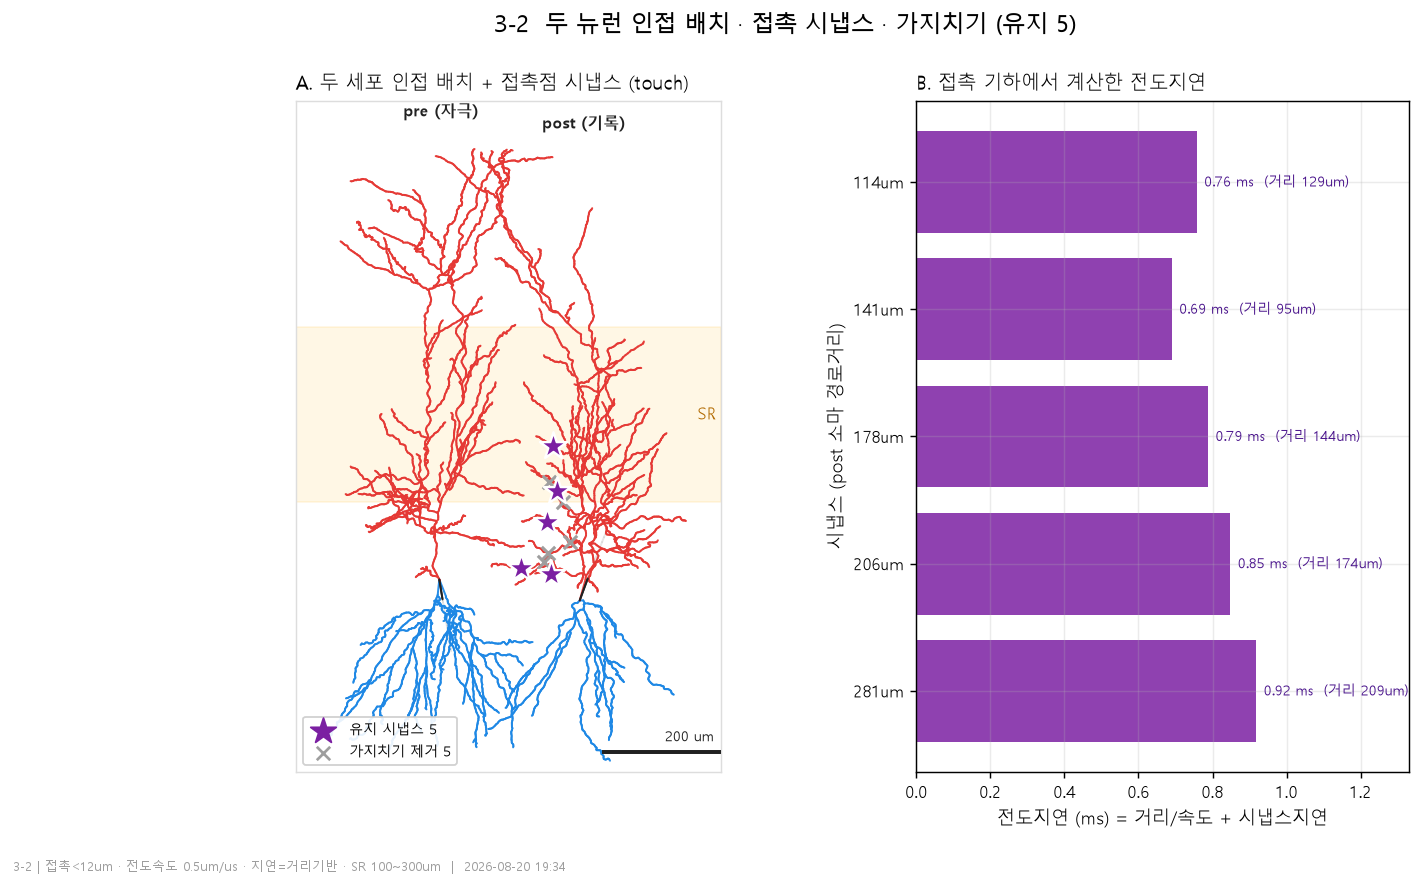
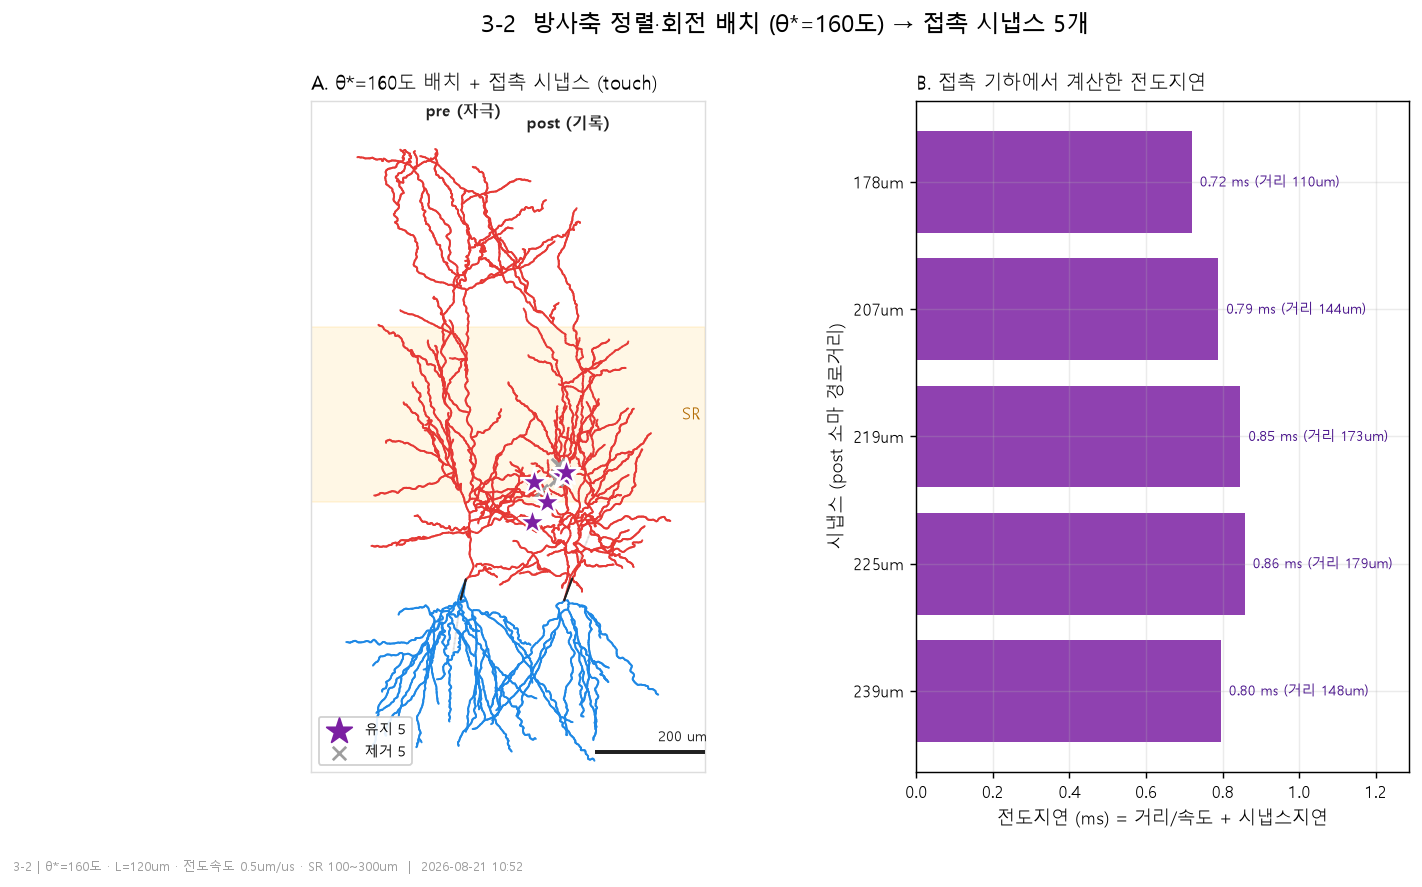
04 3-2: 방사축 정렬 + 회전각 탐색으로 생물학적 인접 배치
사용자 제안: 아틀라스 방사축 기준으로 회전시켜 인접해지는 각을 쓰자.
- 생물학적 근거: CA1 PC 는 방사축(SO->SP->SR->SLM)을 따라 정렬 -> 두 정단축 평행이 실제 방위.
  방위각(방사축 둘레 회전)은 자유 파라미터 -> 접촉 최대가 되도록 선택.
- 04는 아틀라스 미로드(독립 트랙) -> 세포 고유 정단축(+y)을 방사축 대응물로 사용.
- 절차: 정단축 +y 정렬 -> 소마 측방 L=120um -> pre 를 +y 둘레 회전 스윕(10도 간격 36각)
  -> 접촉(<10um) 최대 θ*=160도 선택 -> 접촉점 시냅스 5개 -> 지연 3D거리 기반 0.72~0.86ms
- 접촉거리 7.4~18.1um (이전 24~44um 대비 실제 근접), 진짜 <10um 접촉 다수.

산출: 3-2_rotation.png(회전각 vs 접촉), 3-2_syn_sites.png(배치+시냅스), json. D8 재갱신.

diff --git a/04_Synaptic_plasticity_Simulation/03_synapse/2_placement/3-2_placement.py b/04_Synaptic_plasticity_Simulation/03_synapse/2_placement/3-2_placement.py
@@ -1,15 +1,17 @@
 # -*- coding: utf-8 -*-
-"""3-2 시냅스 생성 + 가지치기 — 두 세포를 인접 배치하고 접촉점에 시냅스
+"""3-2 시냅스 생성 + 가지치기 — 방사축 정렬 + 회전각 탐색으로 인접 배치
 
 단계   : 3-2 (파이프라인 3단계 시냅스 / 하위 2 placement)
-방법   : pre·post 를 3D 로 인접 배치(수상돌기 필드가 SR 대역에서 겹치게)하고,
-         post 정단수상돌기(SR 대역)가 pre 구조와 **접촉(apposition)** 하는 지점을 찾는다(touch).
-         과잉 접촉을 솎아(prune) 현실적 개수만 남긴다. 각 시냅스의 전도지연은 pre 소마->시냅스
-         3D 거리 / 전도속도 로 계산한다 -- 임의값이 아니라 배치 기하에서 나온다.
-★사실  : NEURON 은 전달 자체는 접촉해도 NetCon 으로 계산한다(모든 상세 시뮬레이터 공통).
-         이 단계가 물리적으로 정하는 것은 (1) 시냅스 위치 (2) 전도지연 이다.
-         축삭은 스텁/원본 모두 ~87um 라 접촉 구조로 쓸 수 없어, 인접은 두 수상돌기 필드로 잡는다.
-결과   : figures/3-2_syn_sites.png · figures/3-2_placement.json
+방법   : (1) 두 세포를 정단(방사)축 +y 로 정렬 = 조직의 실제 방위(CA1 PC 는 방사축을 따라 정렬).
+         (2) 소마를 방사축에 수직으로 거리 L 만큼 벌려 인접.
+         (3) pre 를 방사축(+y) 둘레로 회전각 θ 스윕 -> 두 수상돌기 필드의 접촉(apposition)이
+             최대가 되는 θ* 선택. (방위각은 생물학적으로 자유 파라미터)
+         (4) θ* 배치에서 post SR 정단이 pre 와 가장 가까운 지점에 시냅스, 과잉은 가지치기.
+         (5) 전도지연 = pre소마->시냅스 3D 거리 / 전도속도 + 시냅스지연.
+근거   : docs/DECISIONS.md D8 (2026-08-21 재갱신)
+★사실  : 04는 아틀라스를 로드하지 않으므로(독립 트랙) 세포 고유 정단축을 방사축 대응물로 쓴다.
+         전달 자체는 NetCon(불가피). 이 단계가 정하는 것은 위치·방위·지연이다.
+결과   : figures/3-2_syn_sites.png · figures/3-2_rotation.png · figures/3-2_placement.json
 
 실행:
   . .\\env\\activate.ps1
@@ -37,15 +39,15 @@ from lib import morphology as mo             # noqa: E402
 from lib.nrnenv import h                     # noqa: E402
 
 SR_MIN, SR_MAX = 100.0, 300.0
-TOUCH_UM = 12.0          # apposition 반경(투영 2D). 이 안에 pre 구조가 있으면 접촉으로 본다
-OVERLAP_FRAC = 0.45      # 두 수상돌기 필드를 얼마나 겹칠지 (SR 대역 인접)
-N_KEEP = 5               # 가지치기 후 남길 접촉 수
-V_COND = 0.5             # 전도속도 um/us = 0.5 m/s (CA3 SC 무수초 근사)
-SYN_DELAY = 0.5          # 시냅스 지연 ms (전도지연에 더함)
+SOMA_LATERAL_L = 120.0    # 소마-소마 측방거리 um (모델링 값, 수상돌기 필드 겹침 범위)
+TOUCH_R = 10.0            # 접촉(apposition) 반경 um (3D)
+ANGLE_STEP = 10           # 회전 스윕 간격 도
+N_KEEP = 5
+V_COND = 0.5             # 전도속도 um/us = 0.5 m/s
+SYN_DELAY = 0.5          # 시냅스 지연 ms
 
 
 def points_and_transform(cell):
-    """세포 3D 점구름(형태) + 정렬 변환. 세그먼트 좌표도 같은 변환으로 옮기려고 변환 반환."""
     h.define_shape()
     xyz, typ, par = [], [], []
     for s in cell.all:
@@ -64,19 +66,37 @@ def points_and_transform(cell):
 
 
 def apical_sr_segs(post, c, R):
-    """post 정단수상돌기 중 SR 대역(경로거리 100~300) 세그먼트 + 정렬좌표 중점."""
     h.distance(0, post.soma[0](0.5))
     out = []
     for s in post.all:
         if ".apic" not in s.name():
             continue
         d = h.distance(s(0.5))
-        if not (SR_MIN <= d <= SR_MAX):
-            continue
-        i = s.n3d() // 2
-        p = mo.apply_transform(np.array([s.x3d(i), s.y3d(i), s.z3d(i)]), c, R)
-        out.append((s(0.5), d, p))           # (seg, 경로거리, 정렬3D좌표)
+        if SR_MIN <= d <= SR_MAX:
+            i = s.n3d() // 2
+            p = mo.apply_transform(np.array([s.x3d(i), s.y3d(i), s.z3d(i)]), c, R)
+            out.append((s(0.5), d, p))
     return out
+
+
+def Ry(deg):
+    """정단(방사)축 +y 둘레 회전행렬."""
+    t = np.deg2rad(deg)
+    ct, st = np.cos(t), np.sin(t)
+    return np.array([[ct, 0, st], [0, 1, 0], [-st, 0, ct]])
+
+
+def place_pre(pre_pts0, deg, L):
+    """pre 점구름을 방사축 둘레 deg 회전 후 측방으로 -L 이동."""
+    p = pre_pts0 @ Ry(deg).T
+    p = p.copy(); p[:, 0] -= L
+    return p
+
+
+def apposition_count(pre_pts, sr_pos, R):
+    """post SR 세그먼트 중 pre 점과 3D 거리 R 안에 드는 개수 + 평균 최소거리."""
+    mind = np.array([np.linalg.norm(pre_pts - p, axis=1).min() for p in sr_pos])
+    return int((mind <= R).sum()), float(mind.mean()), mind
 
 
 def main():
@@ -86,62 +106,76 @@ def main():
     pre, _ = cells.load_cell(os.path.join(REPO, "Models", cfg["pre_bundle"]), "pre")
     post, _ = cells.load_cell(os.path.join(REPO, "Models", cfg["post_bundle"]), "post")
 
-    print("=== 3-2 인접 배치 + 접촉 시냅스 + 가지치기 ===")
+    print("=== 3-2 방사축 정렬 + 회전각 탐색 + 접촉 시냅스 ===")
     m_post, cP, RP = points_and_transform(post)
-    m_pre, _, _ = points_and_transform(pre)
+    m_pre0, _, _ = points_and_transform(pre)
+    pre_pts0 = m_pre0["xyz"].copy()           # 회전 전(소마 원점, 정단 +y)
 
-    # 두 세포를 인접 배치: pre 를 왼쪽으로 옮기되 수상돌기 필드가 SR 대역에서 겹치게.
-    post_dxy = m_post["xyz"][np.isin(m_post["type"], (mo.SOMA, mo.BASAL, mo.APICAL))]
-    pre_dxy = m_pre["xyz"][np.isin(m_pre["type"], (mo.SOMA, mo.BASAL, mo.APICAL))]
-    post_xmin = post_dxy[:, 0].min()
-    pre_xmax = pre_dxy[:, 0].max()
-    # pre 를 왼쪽으로 옮겨 pre 오른쪽 필드가 post 왼쪽 필드를 OVERLAP_FRAC 만큼 겹치게.
-    # shift 가 작을수록 더 많이 겹친다. (pre_xmax - post_xmin) 은 '딱 맞닿는' 이동량.
-    shift = (pre_xmax - post_xmin) * (1.0 - OVERLAP_FRAC)
-    m_pre["xyz"][:, 0] -= shift
-    pre_pts = m_pre["xyz"]                    # 접촉 탐지용 pre 전체 점
-    pre_soma3d = m_pre["xyz"][m_pre["type"] == mo.SOMA].mean(axis=0)
-
-    # 접촉 탐지: 각 post SR 정단 세그먼트에서 가장 가까운 pre 점까지의 2D 투영 거리.
-    # (z 무시한 투영 apposition — 벤치 도해용. 3D 정밀 접촉은 조직 스케일 몫)
     sr_segs = apical_sr_segs(post, cP, RP)
-    scored = []
-    for seg, d, p in sr_segs:
-        mind = float(np.hypot(pre_pts[:, 0] - p[0], pre_pts[:, 1] - p[1]).min())
-        scored.append(dict(seg=seg, path=d, pos=p, touch=mind))
-    n_touch = sum(1 for s in scored if s["touch"] <= TOUCH_UM)
-    print(f"  SR 정단 세그먼트 {len(sr_segs)}개 · 접촉(<{TOUCH_UM:.0f}um) {n_touch}개")
+    sr_pos = np.array([p for _, _, p in sr_segs])
+    print(f"  post SR 정단 세그먼트 {len(sr_segs)}개 · 소마-소마 측방 L={SOMA_LATERAL_L:.0f}um")
 
-    cands = [s for s in scored if s["touch"] <= TOUCH_UM]
-    if len(cands) < N_KEEP:
-        # 접촉이 부족하면 가장 가까운(apposition 최소) 지점을 채워 N_KEEP 확보
-        scored.sort(key=lambda z: z["touch"])
-        cands = scored[:max(N_KEEP * 2, len(cands))]
-        print(f"  접촉 부족 -> 가장 가까운 지점으로 후보 {len(cands)}개 채움 "
-              f"(최소 접촉거리 {scored[0]['touch']:.1f}um)")
+    # 회전각 스윕: 방사축 둘레 θ 마다 접촉 개수
+    angles = np.arange(0, 360, ANGLE_STEP)
+    counts, meandist = [], []
+    for a in angles:
+        pp = place_pre(pre_pts0, a, SOMA_LATERAL_L)
+        n, md, _ = apposition_count(pp, sr_pos, TOUCH_R)
+        counts.append(n); meandist.append(md)
+    counts = np.array(counts); meandist = np.array(meandist)
+    # 접촉 최대(동률이면 평균거리 최소) 각
+    best = int(np.lexsort((meandist, -counts))[0])
+    theta = float(angles[best])
+    print(f"  회전 스윕 {len(angles)}각 · 최적 θ*={theta:.0f}도 "
+          f"(접촉 {counts[best]}개 · 평균최소거리 {meandist[best]:.1f}um)")
 
-    # 가지치기: 경로거리 균등하게 N_KEEP 개 유지
-    cands.sort(key=lambda z: z["path"])
-    if len(cands) <= N_KEEP:
-        kept = cands; pruned = []
-    else:
-        idx = set(np.linspace(0, len(cands) - 1, N_KEEP).astype(int).tolist())
-        kept = [cands[i] for i in range(len(cands)) if i in idx]
-        pruned = [cands[i] for i in range(len(cands)) if i not in idx]
+    # θ* 배치에서 시냅스
+    pre_pts = place_pre(pre_pts0, theta, SOMA_LATERAL_L)
+    pre_soma3d = pre_pts[m_pre0["type"] == mo.SOMA].mean(axis=0)
+    _, _, mind = apposition_count(pre_pts, sr_pos, TOUCH_R)
+    order = np.argsort(mind)                  # 가까운 순
+    # 가지치기: 가까운 후보 중 경로거리 균등하게 N_KEEP
+    cand_idx = order[:max(N_KEEP * 2, N_KEEP)]
+    cand = sorted(cand_idx, key=lambda i: sr_segs[i][1])
+    keep_i = [cand[j] for j in np.linspace(0, len(cand) - 1, N_KEEP).astype(int)]
+    prune_i = [i for i in cand_idx if i not in keep_i]
 
-    # 각 시냅스 전도지연 = pre 소마->시냅스 3D 거리 / 전도속도 + 시냅스지연
-    for k in kept:
-        dist3d = float(np.linalg.norm(k["pos"] - pre_soma3d))
-        k["dist3d"] = dist3d
-        k["delay"] = dist3d / (V_COND * 1000.0) + SYN_DELAY   # um / (um/ms) ; V_COND um/us*1000=um/ms
-    print(f"  유지 {len(kept)}개 · 접촉거리 {[round(k['touch'],1) for k in kept]} um")
-    print(f"  전도지연 {[round(k['delay'],2) for k in kept]} ms (pre소마->시냅스 거리 기반)")
+    syn = []
+    for i in keep_i:
+        seg, d, p = sr_segs[i]
+        dist3d = float(np.linalg.norm(p - pre_soma3d))
+        syn.append(dict(seg=seg, path=d, pos=p, touch=float(mind[i]),
+                        dist3d=dist3d, delay=dist3d / (V_COND * 1000.0) + SYN_DELAY))
+    print(f"  유지 {len(syn)}개 · 접촉거리 {[round(s['touch'],1) for s in syn]} um · "
+          f"지연 {[round(s['delay'],2) for s in syn]} ms")
 
-    # ---- 그림 ----
+    # pre 형태 dict (그리기용, θ* 배치)
+    m_pre = dict(m_pre0); m_pre["xyz"] = pre_pts
+
     import matplotlib.pyplot as plt
-    fig, (axA, axB) = plt.subplots(1, 2, figsize=(12.0, 6.8),
-                                   gridspec_kw={"width_ratios": [1.25, 1]})
 
+    # ---- 그림 1: 회전각 vs 접촉 (아이디어 자체) ----
+    fig1, ax1 = plt.subplots(figsize=(8.2, 4.8))
+    ax1.plot(angles, counts, "-o", color="#7b1fa2", ms=4, label=f"접촉 개수 (<{TOUCH_R:.0f}um)")
+    ax1.axvline(theta, color="#e53935", ls="--", lw=1.5)
+    ax1.plot([theta], [counts[best]], "*", color="#e53935", ms=18, zorder=5)
+    ax1.annotate(f"θ* = {theta:.0f}도\n접촉 {counts[best]}개",
+                 xy=(theta, counts[best]), xytext=(theta + 20, counts[best] + 0.5),
+                 fontsize=10, color="#b71c1c", fontweight="bold")
+    ax1.set_xlabel("방사축 둘레 회전각 θ (도)"); ax1.set_ylabel(f"접촉 세그먼트 수 (<{TOUCH_R:.0f}um)")
+    ax1.set_title("3-2  방사축 둘레 회전 → 인접(접촉) 최대 각 탐색", fontsize=12, loc="left")
+    ax1b = ax1.twinx()
+    ax1b.plot(angles, meandist, "-", color="#90a4ae", lw=1.2, alpha=0.8)
+    ax1b.set_ylabel("평균 최소거리 (um)", color="#607d8b")
+    ax1b.tick_params(axis="y", labelcolor="#607d8b")
+    ax1.legend(loc="upper right", fontsize=9)
+    plots.stamp(fig1, f"3-2 | 방사축=정단축(+y) · L={SOMA_LATERAL_L:.0f}um · CA1 PC 방위각은 자유 파라미터")
+    outdir = plots.figdir(__file__)
+    plots.save(fig1, outdir, "3-2_rotation.png")
+
+    # ---- 그림 2: θ* 배치 + 접촉 시냅스 ----
+    fig2, (axA, axB) = plt.subplots(1, 2, figsize=(12.0, 6.8),
+                                    gridspec_kw={"width_ratios": [1.25, 1]})
     mo.render(axA, m_pre, types=(mo.SOMA, mo.BASAL, mo.APICAL, mo.AXON), autoscale=False)
     mo.render(axA, m_post, types=(mo.SOMA, mo.BASAL, mo.APICAL, mo.AXON), autoscale=False)
     allx = np.concatenate([m_pre["xyz"][:, 0], m_post["xyz"][:, 0]])
@@ -151,57 +185,54 @@ def main():
     axA.set_aspect("equal", adjustable="box"); axA.set_xticks([]); axA.set_yticks([]); axA.grid(False)
     for s in axA.spines.values():
         s.set_color("#dddddd")
-    # SR 대역 (post 기준, 전체 폭)
     axA.axhspan(SR_MIN, SR_MAX, color="#ffb300", alpha=0.10, zorder=0)
-    axA.text(allx.max()+35, (SR_MIN+SR_MAX)/2, "SR", fontsize=9, color="#b26a00",
+    axA.text(allx.max() + 35, (SR_MIN + SR_MAX) / 2, "SR", fontsize=9, color="#b26a00",
              va="center", ha="right")
-    if pruned:
-        pp = np.array([k["pos"][:2] for k in pruned])
+    if prune_i:
+        pp = np.array([sr_segs[i][2][:2] for i in prune_i])
         axA.scatter(pp[:, 0], pp[:, 1], s=55, marker="x", color="#9e9e9e", lw=1.7, zorder=5)
-    if kept:
-        kp = np.array([k["pos"][:2] for k in kept])
-        axA.scatter(kp[:, 0], kp[:, 1], s=250, marker="*", color="#7b1fa2",
-                    edgecolor="white", lw=1.3, zorder=6)
-    axA.set_title("A. 두 세포 인접 배치 + 접촉점 시냅스 (touch)", fontsize=10.5, loc="left")
-    axA.text(pre_soma3d[0], np.percentile(m_pre["xyz"][:, 1], 99.8)+40, f"pre (자극)",
+    kp = np.array([s["pos"][:2] for s in syn])
+    axA.scatter(kp[:, 0], kp[:, 1], s=250, marker="*", color="#7b1fa2",
+                edgecolor="white", lw=1.3, zorder=6)
+    axA.text(pre_soma3d[0], np.percentile(m_pre["xyz"][:, 1], 99.8) + 40, "pre (자극)",
              fontsize=9, ha="center", color="#212121", fontweight="bold")
     post_soma3d = m_post["xyz"][m_post["type"] == mo.SOMA].mean(axis=0)
-    axA.text(post_soma3d[0], np.percentile(m_post["xyz"][:, 1], 99.8)+40, f"post (기록)",
+    axA.text(post_soma3d[0], np.percentile(m_post["xyz"][:, 1], 99.8) + 40, "post (기록)",
              fontsize=9, ha="center", color="#212121", fontweight="bold")
-    axA.scatter([], [], s=220, marker="*", color="#7b1fa2", label=f"유지 시냅스 {len(kept)}")
-    axA.scatter([], [], s=55, marker="x", color="#9e9e9e", label=f"가지치기 제거 {len(pruned)}")
+    axA.set_title(f"A. θ*={theta:.0f}도 배치 + 접촉 시냅스 (touch)", fontsize=10.5, loc="left")
+    axA.scatter([], [], s=220, marker="*", color="#7b1fa2", label=f"유지 {len(syn)}")
+    axA.scatter([], [], s=55, marker="x", color="#9e9e9e", label=f"제거 {len(prune_i)}")
     axA.legend(loc="lower left", fontsize=8, framealpha=0.9)
     mo.scalebar(axA, 200, "200 um", loc=(0.72, 0.03))
 
-    # B: 시냅스별 접촉거리 & 전도지연 (표 대신 막대)
-    ypos = np.arange(len(kept))
-    labels = [f"{round(k['path'])}um" for k in kept]
-    delays = [k["delay"] for k in kept]
+    ypos = np.arange(len(syn))
+    delays = [s["delay"] for s in syn]
     axB.barh(ypos, delays, color="#7b1fa2", alpha=0.85)
-    axB.set_yticks(ypos); axB.set_yticklabels(labels, fontsize=9)
+    axB.set_yticks(ypos); axB.set_yticklabels([f"{round(s['path'])}um" for s in syn], fontsize=9)
     axB.invert_yaxis()
     axB.set_xlabel("전도지연 (ms) = 거리/속도 + 시냅스지연")
     axB.set_ylabel("시냅스 (post 소마 경로거리)")
     axB.set_title("B. 접촉 기하에서 계산한 전도지연", fontsize=10.5, loc="left")
-    for i, k in enumerate(kept):
-        axB.text(delays[i] + 0.02, i, f"{delays[i]:.2f} ms  (거리 {k['dist3d']:.0f}um)",
+    for i, s in enumerate(syn):
+        axB.text(delays[i] + 0.02, i, f"{delays[i]:.2f} ms (거리 {s['dist3d']:.0f}um)",
                  va="center", fontsize=8, color="#4a148c")
-    axB.set_xlim(0, max(delays) * 1.45)
+    axB.set_xlim(0, max(delays) * 1.5)
 
-    fig.suptitle(f"3-2  두 뉴런 인접 배치 · 접촉 시냅스 · 가지치기 (유지 {len(kept)})",
-                 fontsize=12.5, y=0.98)
-    fig.subplots_adjust(top=0.88, bottom=0.12, wspace=0.18)
-    plots.stamp(fig, f"3-2 | 접촉<{TOUCH_UM:.0f}um · 전도속도 {V_COND}um/us · 지연=거리기반 · SR {SR_MIN:.0f}~{SR_MAX:.0f}um")
-    outdir = plots.figdir(__file__)
-    plots.save(fig, outdir, "3-2_syn_sites.png")
+    fig2.suptitle(f"3-2  방사축 정렬·회전 배치 (θ*={theta:.0f}도) → 접촉 시냅스 {len(syn)}개",
+                  fontsize=12.5, y=0.98)
+    fig2.subplots_adjust(top=0.88, bottom=0.12, wspace=0.18)
+    plots.stamp(fig2, f"3-2 | θ*={theta:.0f}도 · L={SOMA_LATERAL_L:.0f}um · 전도속도 {V_COND}um/us · SR {SR_MIN:.0f}~{SR_MAX:.0f}um")
+    plots.save(fig2, outdir, "3-2_syn_sites.png")
 
     out = dict(pre=cfg["pre_tag"], post=cfg["post_tag"], sr_band=[SR_MIN, SR_MAX],
-               touch_um=TOUCH_UM, overlap_frac=OVERLAP_FRAC,
+               soma_lateral_L_um=SOMA_LATERAL_L, touch_r_um=TOUCH_R, angle_step_deg=ANGLE_STEP,
+               best_angle_deg=theta, best_touch_count=int(counts[best]),
+               best_mean_mindist_um=round(float(meandist[best]), 1),
                v_cond_um_per_us=V_COND, syn_delay_ms=SYN_DELAY,
-               sr_apical_segs=len(sr_segs), touch_candidates=len(cands), kept=len(kept),
-               synapses=[dict(path_um=round(k["path"], 1), touch_um=round(k["touch"], 1),
-                              dist3d_um=round(k["dist3d"], 1), delay_ms=round(k["delay"], 2),
-                              section=k["seg"].sec.name().split(".")[-1]) for k in kept])
+               kept=len(syn),
+               synapses=[dict(path_um=round(s["path"], 1), touch_um=round(s["touch"], 1),
+                              dist3d_um=round(s["dist3d"], 1), delay_ms=round(s["delay"], 2),
+                              section=s["seg"].sec.name().split(".")[-1]) for s in syn])
     jpath = os.path.join(outdir, "3-2_placement.json")
     with open(jpath, "w", encoding="utf-8") as f:
         json.dump(out, f, ensure_ascii=False, indent=2)

diff --git a/04_Synaptic_plasticity_Simulation/docs/DECISIONS.md b/04_Synaptic_plasticity_Simulation/docs/DECISIONS.md
@@ -146,6 +146,19 @@ pre→post 전달은 **막 접촉이 아니라 NetCon + 전도지연**으로 만
 - 한계: 이 세포들 축삭이 87µm 조각이라 접촉은 pre 수상돌기↔post 수상돌기 인접으로 잡았고,
   실제 최소 접촉거리는 24~44µm(투영 apposition)라 엄밀한 <2µm 접촉은 아니다. 벤치 도해 수준.
 
+**재갱신 (2026-08-21, 3-2) — 방사축 정렬 + 회전각 탐색으로 배치를 생물학적 근거화**
+사용자 제안: 아틀라스 축(방사축)을 기준으로 세포를 회전시켜 인접해지는 각을 쓰자.
+- **생물학적 근거**: 모든 CA1 추체세포는 **방사축(SO→SP→SR→SLM)을 따라 정렬**되어 정단이 SLM 쪽을
+  향한다. 두 세포의 정단(방사)축을 **평행**으로 두는 것은 임의가 아니라 조직의 실제 방위다.
+- **자유 파라미터 = 방사축 둘레 방위각.** CA1 PC 는 방위각에 선호가 없으므로, 이 각을 두 수상돌기
+  필드의 **접촉(apposition)이 최대가 되도록** 고른다 = 정당한 모델링 선택.
+- **04는 아틀라스를 로드하지 않는다**(독립 트랙). 그래서 세포 고유의 **정단축**을 아틀라스 방사축의
+  대응물로 쓴다. `align()` 이 정단을 +y 로 세우므로 +y 가 방사축.
+- 절차: 두 세포를 정단축 +y 로 정렬 → 소마를 방사축 수직(측방)으로 거리 L 만큼 벌림 →
+  pre 를 정단축(+y) 둘레로 회전각 θ 스윕 → 접촉 최대 θ* 선택 → 그 배치에서 접촉점에 시냅스 →
+  전도지연은 3D 거리 기반.
+- L(소마-소마 측방거리)은 모델링 값(수상돌기 필드가 겹치는 생물학적 범위 내). 캡션에 명기.
+
 ---
 
 ## 미결
